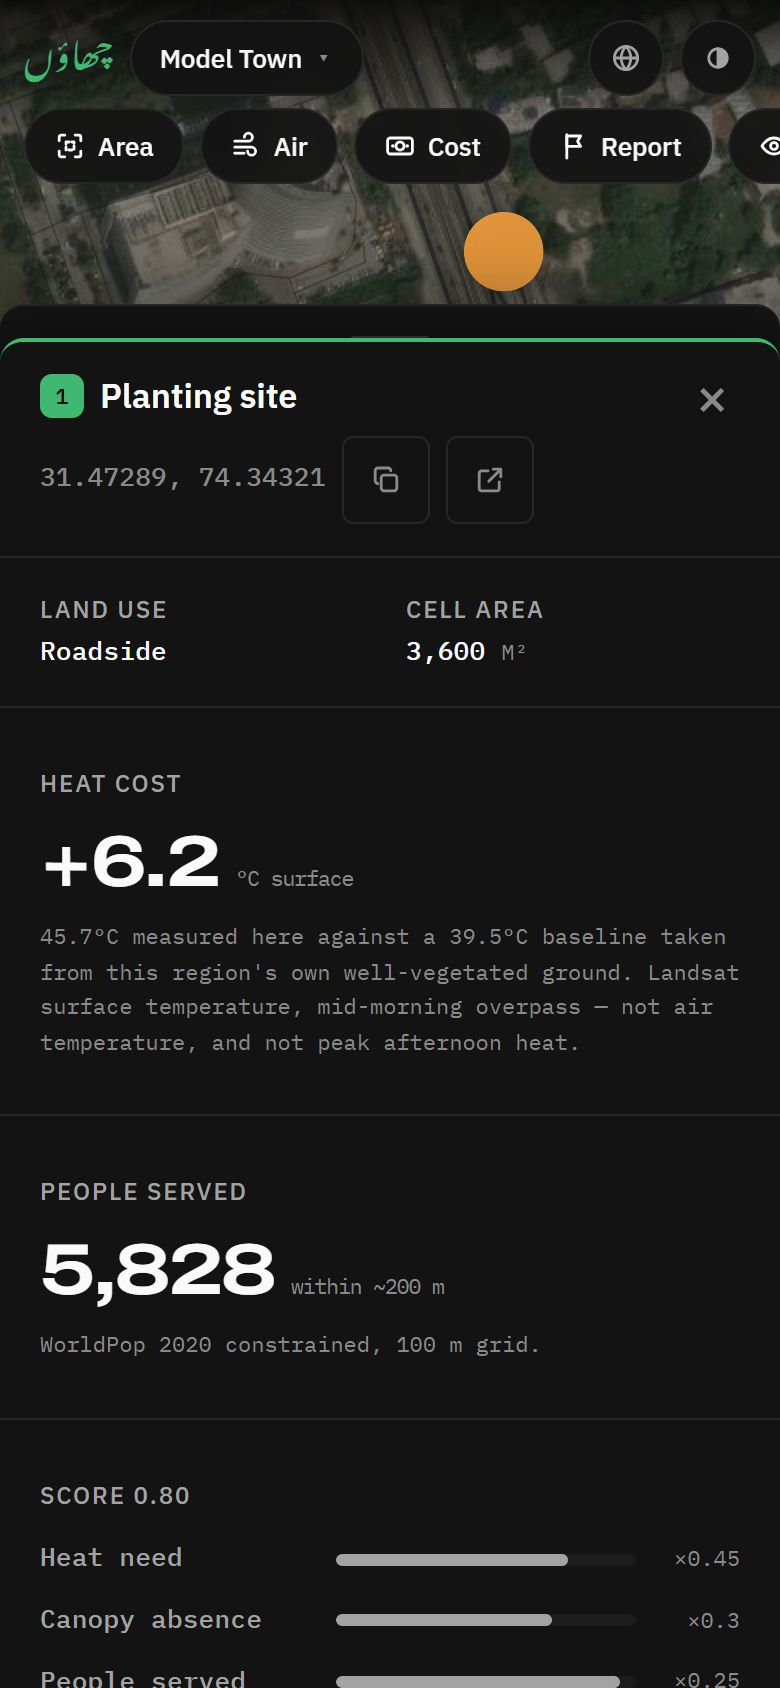
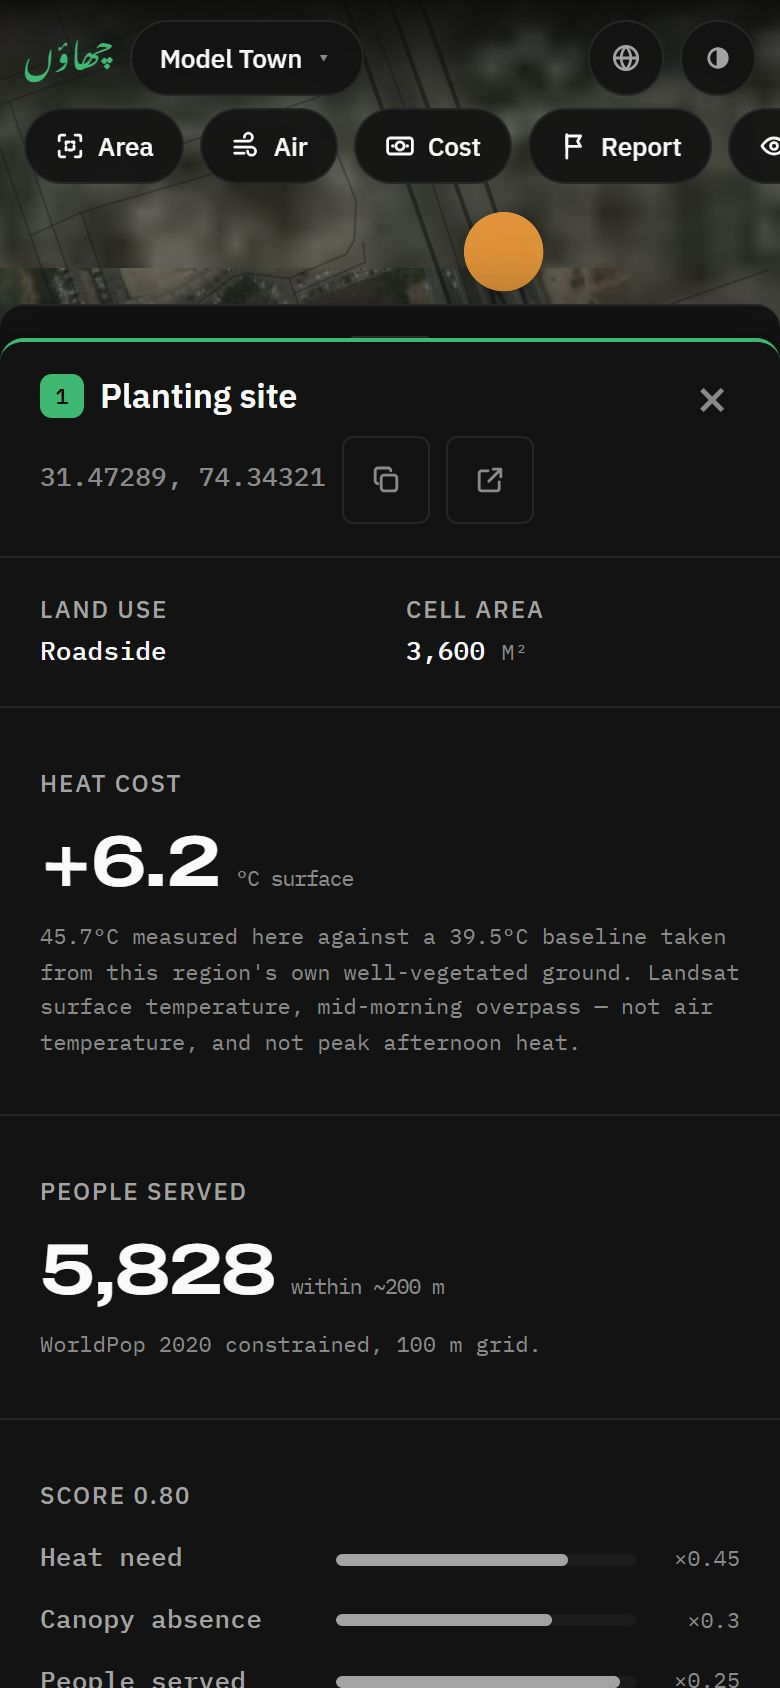
Document why the photograph is chosen by capture date
README, PRODUCT.md §3.14b and SCREENS.md. The argument worth keeping: an archived
release is not a capture, and a year is never shown a photograph taken after it.
Also records the four bugs behind the report and the tile storm the first fix
caused.

diff --git a/docs/PRODUCT.md b/docs/PRODUCT.md
@@ -379,6 +379,64 @@ Monthly composites are held to the yearly layers' 92% coverage bar rather than t
 60% a single pass gets. A single pass is one observation and allowed to be partial;
 a composite had several scenes to fill from and has no excuse.
 
+### 3.14b The photograph is chosen by when it was taken, not when it was published
+
+Reported as a bug: "when I click 2017 I still see the 2026 satellite view, nothing
+changes." Three things were true at once.
+
+**The photograph never changed.** The satellite basemap was Esri's single current
+mosaic, so the scrubber changed a translucent overlay and left today's ground
+underneath. From the default Priority view, where the year affects no layer at all,
+clicking a year visibly did nothing.
+
+Esri archives every past release as Wayback, which fixes that — but **a release is
+not a capture**. The 18 Sep 2019 release shows Model Town as photographed on
+10 Feb 2017. Picking by release would have labelled two-year-old ground "2019",
+which is exactly the kind of quiet mislabelling this product exists to refuse.
+
+Each release publishes a metadata layer with the source date of every patch, so
+`pipeline/imagery.py` asks all ~160 releases since 2016 what they show at each
+region, collapses them to distinct photographs, and chooses per year:
+
+- a capture **inside** the year, nearest the 1 April anchor the yearly NDVI is
+  locked to, so the ground and the measurement over it are from the same season;
+- otherwise the most recent capture **before** the year, and the readout says
+  "none in 2018". **Never a later one** — a future photograph under a past
+  measurement is the one mistake this could make that nobody would catch by eye.
+
+Result: 5–7 of 9 years per region get a photograph of their own. Resolved offline
+into `public/data/imagery.json`, so the app makes no metadata calls; only tiles are
+fetched live, as the current basemap's already were. `qa.py` fails if any year is
+ever given a later photograph.
+
+Mosaics are not uniform, so each chosen release is sampled at five points. Model
+Town's dates hold everywhere; Gulberg's often do not, and the readout's tooltip
+says so rather than presenting one date as covering the whole region.
+
+**The workspace opened on an arbitrary year.** The intro counts backwards through
+the years, and whichever it had reached when the button was pressed stayed selected —
+2023 one time, 2019 the next — over data from the latest year. It now always opens
+on the most recent measurement.
+
+**Clicks landed on the wrong year.** On an ordinary laptop the readout kept its full
+width and left the scrubber 120–190 px for nine years: ticks 15–24 px apart with
+40 px hit areas, every one overlapping the next, so a click on 2020 hit 2021, which
+sits later in the DOM and on top. Below 1700 px the readout now takes its own line
+under the scrubber, giving the track 540–840 px — which is what the design spec
+("full width between rail and scale") already said. Hit areas are also capped at
+the spacing to the next tick, so they cannot overlap at any width.
+
+The first version of this fix followed the year everywhere, including through the
+intro — whose countdown steps through every year, so it fetched ten archived
+releases and 200 tiles, roughly 5 MB, in the first eleven seconds. `prodcheck` flagged
+it as tiles still in flight from superseded releases, which was the right alarm for
+the wrong-looking reason. The photograph now ignores the intro and waits 350 ms for
+the year to settle.
+
+And the collapsed rail hid its labels with `display:none`, which also removed them
+from the accessibility tree: below 1100 px the view and region buttons had no
+accessible name. They carry `aria-label` now.
+
 ### 3.15 Recent passes are a separate analysis, never mixed with the yearly ones
 
 The yearly composites are locked to one spring window precisely so that 2017 and
@@ -720,6 +778,11 @@ invisible in the UI: the layer simply keeps showing the previous year.
 | The Priority legend disagreed with the map | Priority's domain comes from the ranking, not the grid, so `domainFor()` returned a hard-coded 0.25–0.95 while the circles were painted from the real spread (0.33–0.80 in Model Town). Four views honoured the single-source rule and the fifth quietly did not |
 | The 3G load figure was measured wrong, twice | The probe waited on `window.__map` (dev-only, so production reported its 182 s timeout), then on any `<li>` in the ranked list — which matches the empty-state row, so it fired before any data arrived and reported 2.5 s. A perf probe that can pass without the thing it measures will eventually put a wrong number in a README |
 | Area-select and report placement could not be told apart | Both armed the map's click handler. Placement now skips when the other is armed, and arming either disarms the other in the store |
+| The intro fetched ten photographs | The first version of the fix followed the year everywhere, including the intro's countdown, which steps through every year: 10 archived releases and 200 tiles, ~5 MB, in eleven seconds. `prodcheck` caught it as tiles still in flight from superseded releases. The imagery now ignores the intro and waits 350 ms for the year to settle, so holding an arrow key fetches the year you stop on |
+| Clicking a year changed nothing | The satellite basemap was one current mosaic, and the default view is not year-dependent at all. The photograph now follows the scrubber, chosen by capture date |
+| The workspace opened on a random year | The intro countdown's position when the button was pressed |
+| Clicks on one year landed on the next | The readout squeezed the scrubber to 120–190 px on a laptop, so 40 px tick hit areas overlapped their neighbours. The readout moved to its own line, and hit areas are capped at tick spacing |
+| Collapsed rail buttons had no accessible name | `display:none` on the label removes it from the accessibility tree, not just from sight |
 | `write_year` could not write a month | It called `int(period)` on '2024-10'. Generalised to `write_period`, with the cadence in the filename rather than inferred |
 | The legend check started comparing the wrong view | It inherited whatever view the previous check left behind, and a new check began leaving the map on Canopy — so it compared the canopy domain against site scores and failed for a reason that was not there. A test that depends on running order will eventually lie |
 

diff --git a/README.md b/README.md
@@ -148,6 +148,28 @@ as a labelled gap. A blank stretch nobody explains looks like a broken chart.
 The scrubber switches cadence, the Green cover panel charts whichever one is
 active, and `#c=monthly&mo=2026-06` sends a specific month to someone.
 
+### The photograph follows the year
+
+Clicking 2017 used to change the measured overlay and leave today's photograph
+underneath, because the satellite basemap was one current mosaic. It now swaps to
+Esri's archived imagery — but chosen by the date each photograph was **taken**,
+not the date it was published.
+
+That distinction is the whole feature. Esri's release of 18 Sep 2019 shows Model
+Town as it was photographed on **10 Feb 2017**; labelling it "2019" would show
+two-year-old ground as current. `pipeline/imagery.py` asks every archived release
+what it actually shows over each region and picks, per year, the capture taken
+inside that year nearest the spring window the NDVI is locked to.
+
+Where no photograph was taken that year, it shows the most recent **earlier** one
+and the readout says **"Imagery · none in 2018"**. Never a later one: that would put
+a photograph of the future under a past measurement. Across the five regions, 5–7
+of the 9 years have a photograph of their own.
+
+The capture date, sensor and resolution sit in the readout — *10 Feb 2017 ·
+GeoEye-1 · 0.46 m* — and hovering says how much of the region that date covers,
+since a mosaic can straddle two capture strips.
+
 ### Catching change while it is still news
 
 The yearly layers are locked to one spring window so 2017 and 2025 are
@@ -394,6 +416,7 @@ python pipeline/run.py              # all five regions — slow, the decade of y
 python pipeline/run.py model-town   # just one
 python pipeline/recent.py           # the fast rolling stage: recent passes and detected loss
 python pipeline/monthly.py          # monthly composites for the recent 24 months
+python pipeline/imagery.py          # historical satellite imagery, matched by capture date
 python pipeline/split_years.py      # re-shape committed grids into core + per-year files
 ```
 

diff --git a/docs/SCREENS.md b/docs/SCREENS.md
@@ -109,6 +109,13 @@ On the monthly track, months with no composite are drawn as faint stubs with the
 reason on hover: Nov–Feb smog, or a monsoon month with too few scenes to composite
 haze out. About a third of the Lahore year, and it is shown rather than skipped.
 
+**The photograph under the data follows the scrubber**, chosen by the date it was
+taken rather than the date it was published. The readout states that date; where
+no photograph exists for the year, it says "none in 2018" and shows the most recent
+earlier one — never a later one.
+
+Opens on the most recent measurement, not wherever the intro countdown stopped.
+
 ---
 
 ## 6. Command Bar
